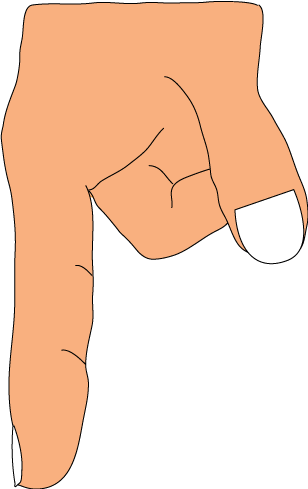
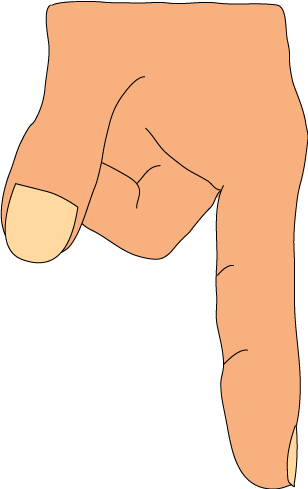
Flipped the finger image so it wouldn't interfere with the thermometer, and made some improvements to the finger image.

diff --git a/simulations-java/simulations/states-of-matter/src/edu/colorado/phet/statesofmatter/view/FingerNode.java b/simulations-java/simulations/states-of-matter/src/edu/colorado/phet/statesofmatter/view/FingerNode.java
@@ -33,7 +33,7 @@ public class FingerNode extends PNode {
     private static final double NODE_MIN_Y_POS_PROPORTION = 0.1;
     
     // Horizontal position of the node as function of the container width.
-    private static final double NODE_X_POS_PROPORTION = 0.30;
+    private static final double NODE_X_POS_PROPORTION = 0.10;
     
     // File name of the primary image.
     public static final String PRIMARY_IMAGE = "finger-2.png";
